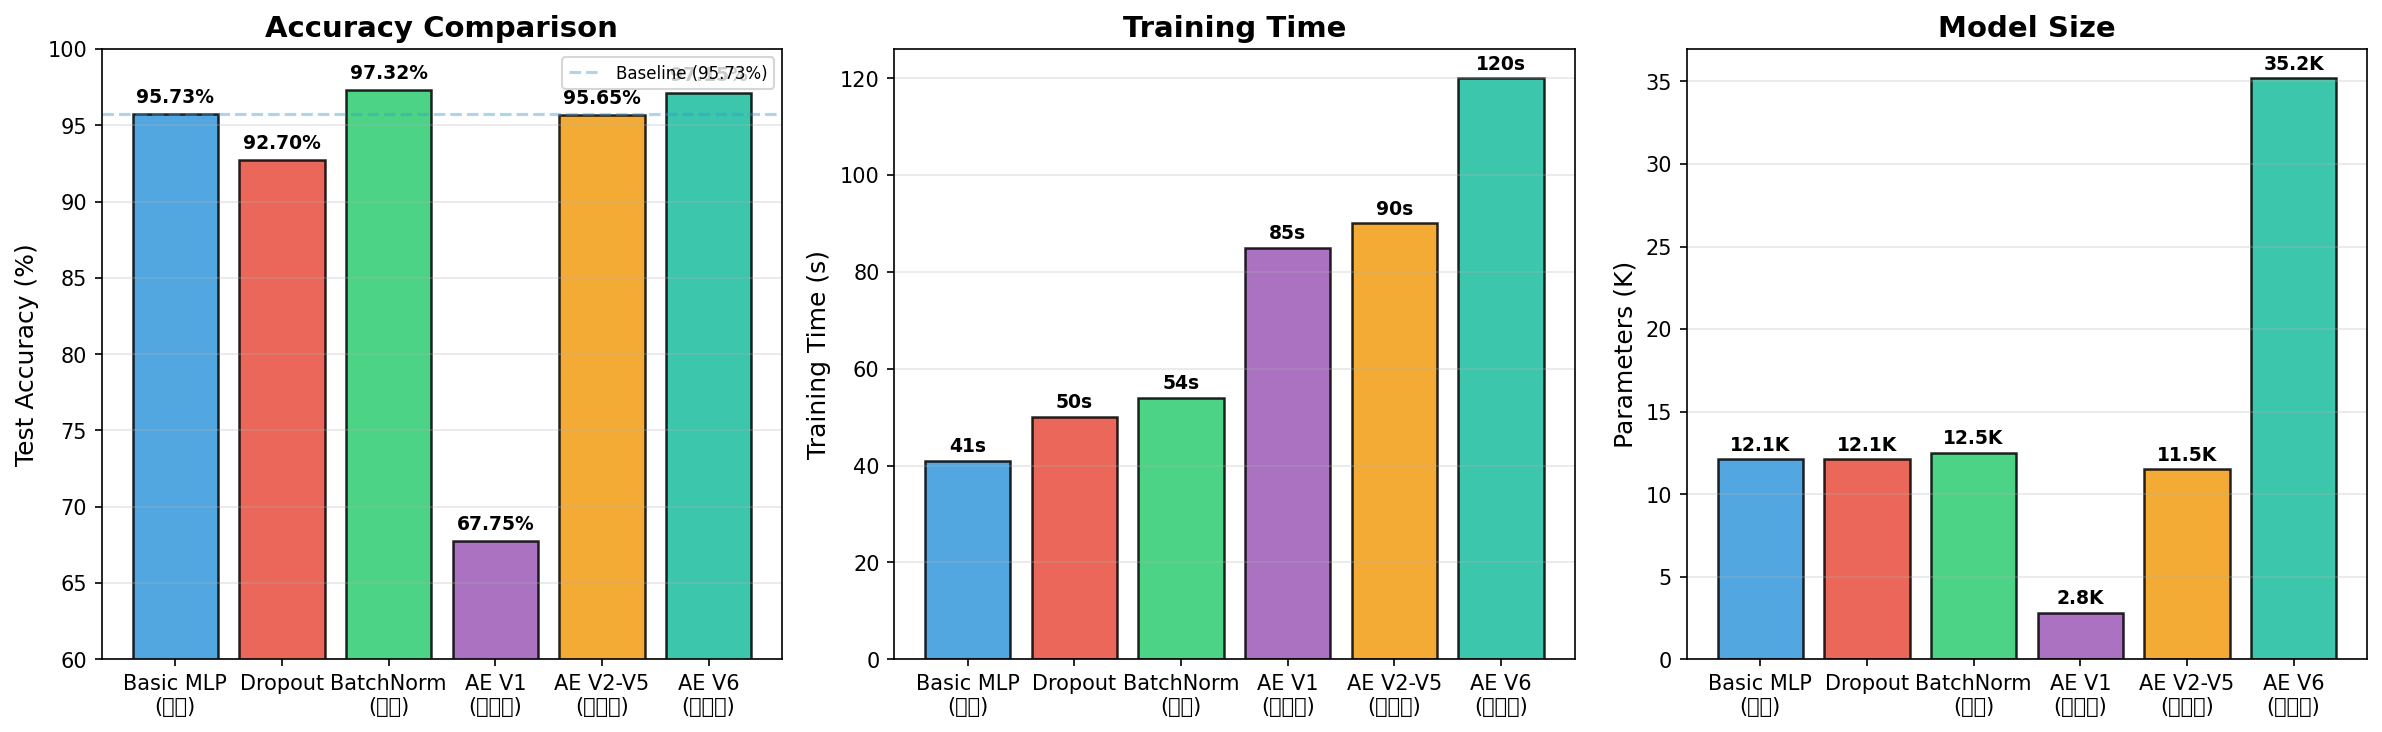
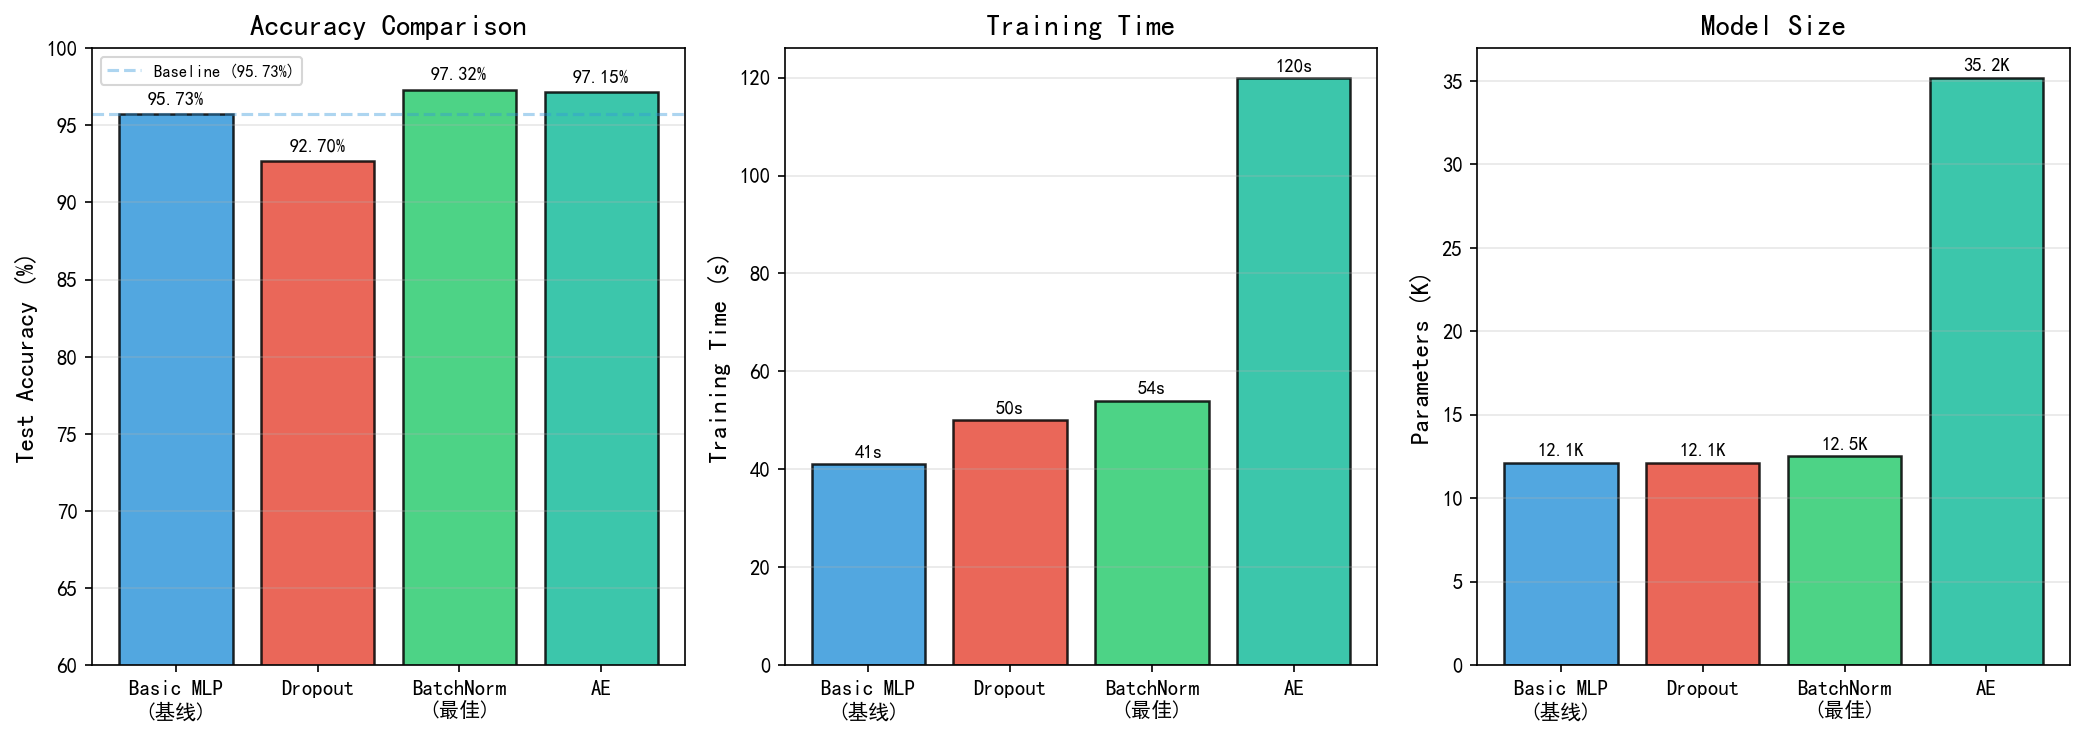
MLP修订版

diff --git a/MLP/plot_comparison.py b/MLP/plot_comparison.py
@@ -1,19 +1,24 @@
-"""生成模型对比图（含 V6）"""
+"""生成模型对比图"""
 import matplotlib
 matplotlib.use('Agg')
 import matplotlib.pyplot as plt
 import numpy as np
 import os
 
-models = ['Basic MLP\n(基线)', 'Dropout', 'BatchNorm\n(最佳)', 'AE V1\n(小容量)', 'AE V2-V5\n(中容量)', 'AE V6\n(大容量)']
-accuracies = [95.73, 92.70, 97.32, 67.75, 95.65, 97.15]
-times = [41.0, 50.1, 54.0, 85.0, 90.0, 120.0]
-params_k = [12.1, 12.1, 12.5, 2.8, 11.5, 35.2]
+# 设置中文字体
+plt.rcParams['font.sans-serif'] = ['SimHei', 'Microsoft YaHei', 'DejaVu Sans']
+plt.rcParams['axes.unicode_minus'] = False
+
+models = ['Basic MLP\n(基线)', 'Dropout', 'BatchNorm\n(最佳)', 'AE']
+accuracies = [95.73, 92.70, 97.32, 97.15]
+times = [41.0, 50.1, 54.0, 120.0]
+params_k = [12.1, 12.1, 12.5, 35.2]
 
 output_dir = os.path.join(os.path.dirname(__file__), 'results')
 
-fig, axes = plt.subplots(1, 3, figsize=(16, 5))
-colors = ['#3498db', '#e74c3c', '#2ecc71', '#9b59b6', '#f39c12', '#1abc9c']
+fig, axes = plt.subplots(1, 3, figsize=(14, 5))
+
+colors = ['#3498db', '#e74c3c', '#2ecc71', '#1abc9c']
 
 # 准确率
 bars1 = axes[0].bar(models, accuracies, color=colors, alpha=0.85, edgecolor='black', linewidth=1.2)
@@ -24,7 +29,7 @@ for bar, acc in zip(bars1, accuracies):
     axes[0].text(bar.get_x() + bar.get_width()/2, bar.get_height() + 0.5,
                 f'{acc:.2f}%', ha='center', va='bottom', fontweight='bold', fontsize=9)
 axes[0].axhline(y=95.73, color='#3498db', linestyle='--', alpha=0.4, label='Baseline (95.73%)')
-axes[0].legend(fontsize=8)
+axes[0].legend(loc='upper left', fontsize=8)
 axes[0].grid(True, alpha=0.3, axis='y')
 
 # 训练时间